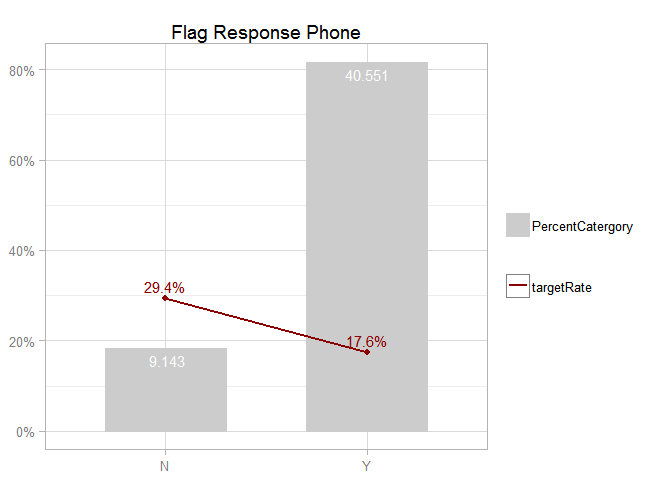
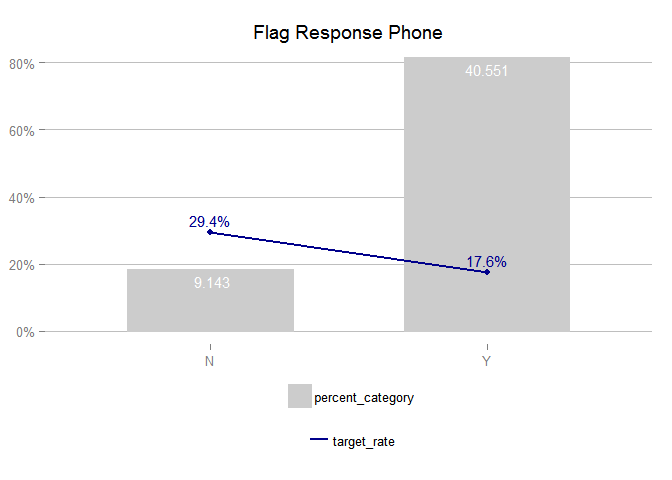
deprecating some function (use the shortcut)!

diff --git a/README.md b/README.md
@@ -1,26 +1,31 @@
+# Riskr
 <!-- README.md is generated from README.Rmd. Please edit that file -->
-riskr
-=====
+
+
+
+# Introducction
 
 riskr help to validate performance of models via wrapper or shortcuts from ROCR functions.
 
-### Installation
+# Installation
 
 You can install the latest development version from github with:
 
-``` r
+
+```r
 devtools::install_github("jbkunst/riskr")
 ```
 
-### Facts
+# Facts
 
-`riskr` assume the target variable is binary with numeric values: 0 and 1. Usually 1 means the characteristic of interest)
+`riskr` assume the target variable is binary with numeric values: 0 and 1. Usually 1 means the characteristic of interest.
 
-### Functions
+# Functions
 
-#### Performance Indicators
+## Performance Indicators
 
-``` r
+
+```r
 library("riskr")
 
 data("predictions")
@@ -35,11 +40,12 @@ head(predictions)
 #> 6 0.24568500      0
 
 str(predictions)
-#> 'data.frame':    10000 obs. of  2 variables:
+#> 'data.frame':	10000 obs. of  2 variables:
 #>  $ score : num  0.2023 0.8058 0.5134 0.0525 0.3288 ...
 #>  $ target: num  1 1 1 0 1 0 1 0 1 1 ...
 
 score <- predictions$score
+
 target <- predictions$target
 
 ks(score, target)
@@ -59,22 +65,22 @@ gini(score, target)
 #> [1] 0.3529319
 
 score_indicators(score, target)
-#>   count count_target rate_target        ks   aucroc      gini
-#> 1 10000         6990       0.301 0.2544475 0.676466 0.3529319
+#>   count target_count target_rate        ks   aucroc      gini
+#> 1 10000         6990       0.699 0.2544475 0.676466 0.3529319
 
 plot_roc(score, target)
 ```
 
-![](vignettes/figures/unnamed-chunk-3-1.png)
+![](vignettes/figures/unnamed-chunk-3-1.png) 
 
-``` r
+```r
 
 plot_gain(score, target)
 ```
 
-![](vignettes/figures/unnamed-chunk-3-2.png)
+![](vignettes/figures/unnamed-chunk-3-2.png) 
 
-``` r
+```r
 
 score <- round(predictions$score * 1000)
 
@@ -91,7 +97,7 @@ odds_table(score, target, nclass = 4)
 #>     intersect, setdiff, setequal, union
 #> Source: local data frame [4 x 7]
 #> 
-#>       class count percent count_target rate_target percent_target     odds
+#>    variable count percent target_count target_rate target_percent     odds
 #> 1   [1,199]  2502  0.2502         1304   0.5211831      0.1865522 1.088481
 #> 2 (199,430]  2504  0.2504         1661   0.6633387      0.2376252 1.970344
 #> 3 (430,683]  2502  0.2502         1894   0.7569944      0.2709585 3.115132
@@ -100,7 +106,7 @@ odds_table(score, target, nclass = 4)
 odds_table(score, target, breaks = c(0, 300, 700, 1000))
 #> Source: local data frame [3 x 7]
 #> 
-#>         class count percent count_target rate_target percent_target
+#>      variable count percent target_count target_rate target_percent
 #> 1     (0,300]  3675  0.3675         2052   0.5583673      0.2935622
 #> 2   (300,700]  3978  0.3978         2926   0.7355455      0.4185980
 #> 3 (700,1e+03]  2347  0.2347         2012   0.8572646      0.2878398
@@ -131,7 +137,7 @@ conf_matrix(score_cat, target)
 data("credit")
 
 str(credit)
-#> 'data.frame':    49694 obs. of  17 variables:
+#> 'data.frame':	49694 obs. of  17 variables:
 #>  $ id_client          : int  1 7 9 12 14 19 22 26 28 30 ...
 #>  $ sex                : chr  "F" "F" "F" "F" ...
 #>  $ marital_status     : chr  "O" "S" "S" "C" ...
@@ -150,40 +156,52 @@ str(credit)
 #>  $ quant_add_cards    : int  0 0 0 0 1 0 0 0 0 0 ...
 #>  $ bad                : int  0 0 1 0 0 0 1 1 0 0 ...
 
-biv_table(credit$marital_status, credit$bad)
+ft(credit$marital_status)
+#> Source: local data frame [5 x 3]
+#> 
+#>   class count    percent
+#> 1     C 17097 0.34404556
+#> 2     D  2142 0.04310380
+#> 3     O  2776 0.05586187
+#> 4     S 25249 0.50808951
+#> 5     V  2430 0.04889926
+
+bt(credit$marital_status, credit$bad)
 #> Source: local data frame [5 x 7]
 #> 
-#>   class count    percent count_target rate_target percent_target      odds
-#> 1     C 17097 0.34404556         2483   0.1452302     0.25303169 0.1699056
-#> 2     D  2142 0.04310380          322   0.1503268     0.03281361 0.1769231
-#> 3     O  2776 0.05586187          660   0.2377522     0.06725772 0.3119093
-#> 4     S 25249 0.50808951         6059   0.2399699     0.61744624 0.3157374
-#> 5     V  2430 0.04889926          289   0.1189300     0.02945073 0.1349837
+#>   variable count    percent target_count target_rate target_percent
+#> 1        C 17097 0.34404556         2483   0.1452302     0.25303169
+#> 2        D  2142 0.04310380          322   0.1503268     0.03281361
+#> 3        O  2776 0.05586187          660   0.2377522     0.06725772
+#> 4        S 25249 0.50808951         6059   0.2399699     0.61744624
+#> 5        V  2430 0.04889926          289   0.1189300     0.02945073
+#> Variables not shown: odds (dbl)
 
 library("ggplot2")
 
 credit$age_bin <- cut_interval(credit$age, 4)
 
-biv_table(credit$age_bin, credit$bad) 
+bt(credit$age_bin, credit$bad)
 #> Source: local data frame [4 x 7]
 #> 
-#>     class count     percent count_target rate_target percent_target
-#> 1 [15,35] 28377 0.571034733         7015  0.24720725    0.714868032
-#> 2 (35,55] 17425 0.350645953         2473  0.14192253    0.252012636
-#> 3 (55,75]  3767 0.075803920          313  0.08308999    0.031896464
-#> 4 (75,95]   125 0.002515394           12  0.09600000    0.001222868
+#>   variable count     percent target_count target_rate target_percent
+#> 1  [15,35] 28377 0.571034733         7015  0.24720725    0.714868032
+#> 2  (35,55] 17425 0.350645953         2473  0.14192253    0.252012636
+#> 3  (55,75]  3767 0.075803920          313  0.08308999    0.031896464
+#> 4  (75,95]   125 0.002515394           12  0.09600000    0.001222868
 #> Variables not shown: odds (dbl)
 
-plot_biv_table(credit$age_bin, credit$bad) + ggtitle("Age")
+plot_bt(credit$age_bin, credit$bad) + ggtitle("Age")
 ```
 
-![](vignettes/figures/unnamed-chunk-3-3.png)
+![](vignettes/figures/unnamed-chunk-3-3.png) 
 
-``` r
+```r
 
-plot_biv_table(credit$flag_res_phone, credit$bad,
-               count.labels = TRUE, target.labels = TRUE) +
-  theme_light() + ggtitle("Flag Response Phone")
+plot_bt(credit$flag_res_phone, credit$bad,
+        count.labels = TRUE, target.labels = TRUE) +
+  ggtitle("Flag Response Phone")
 ```
 
-![](vignettes/figures/unnamed-chunk-3-4.png)
+![](vignettes/figures/unnamed-chunk-3-4.png) 
+
